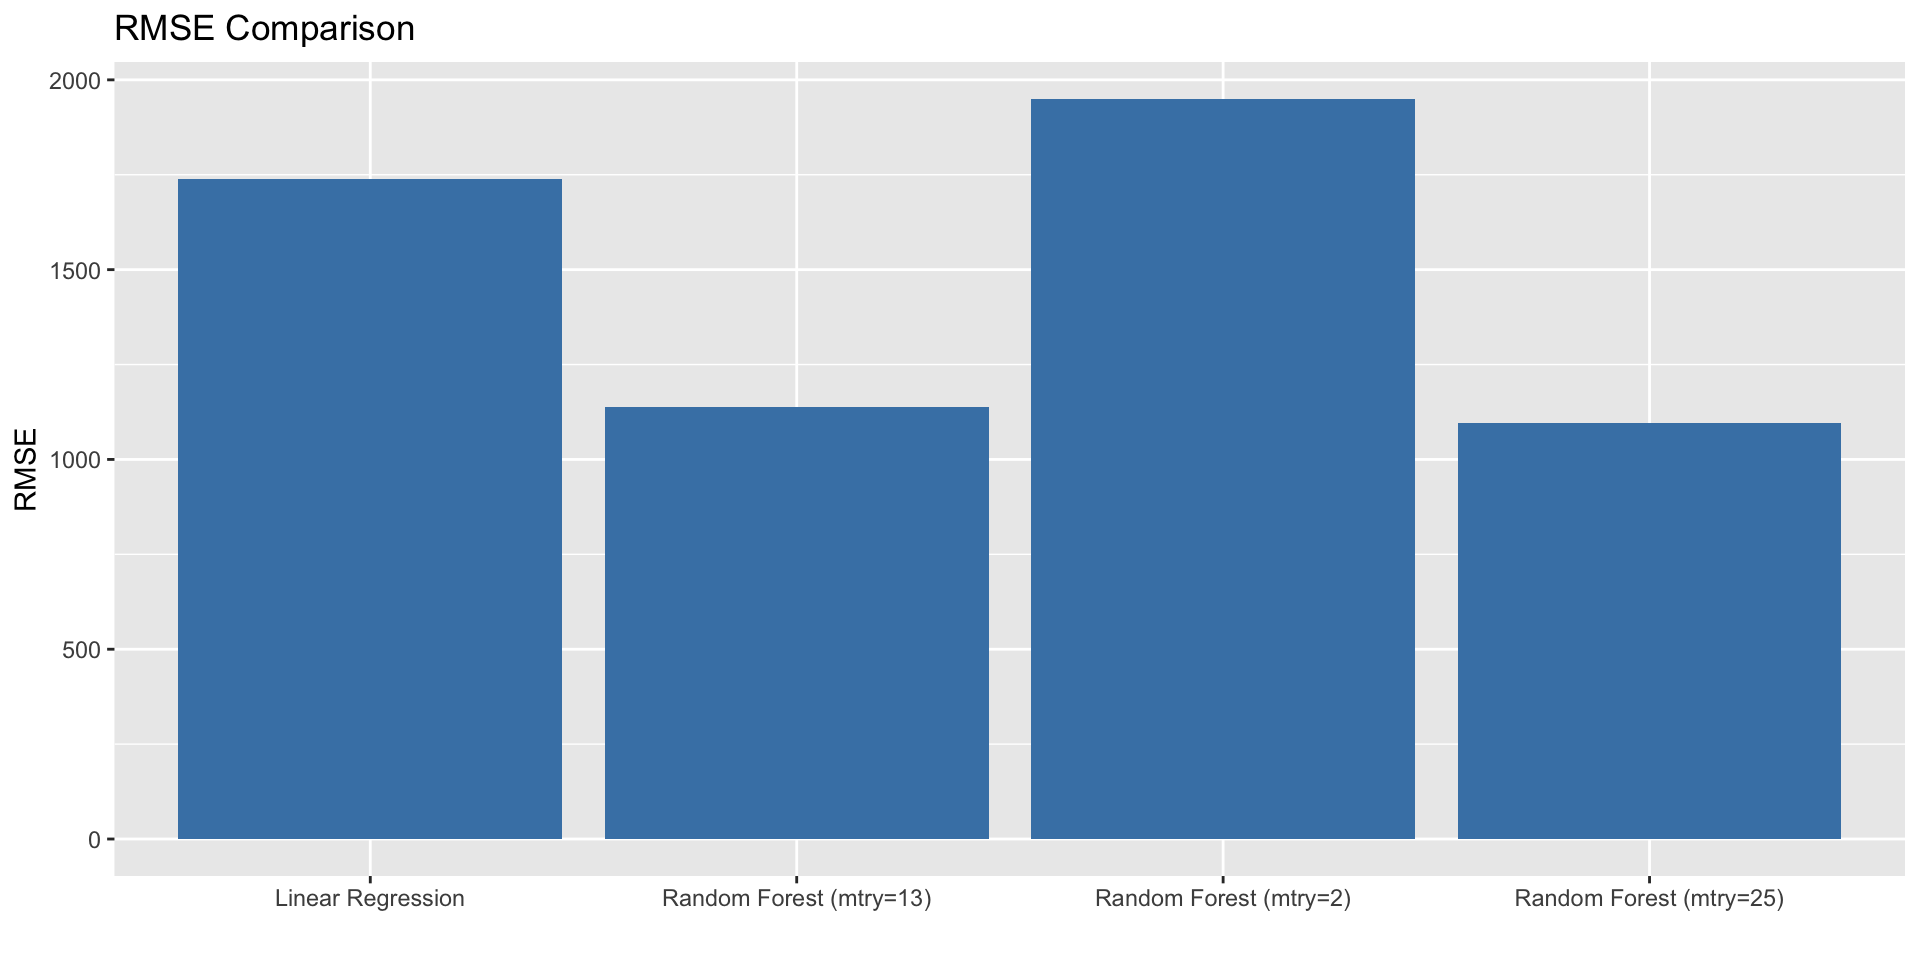
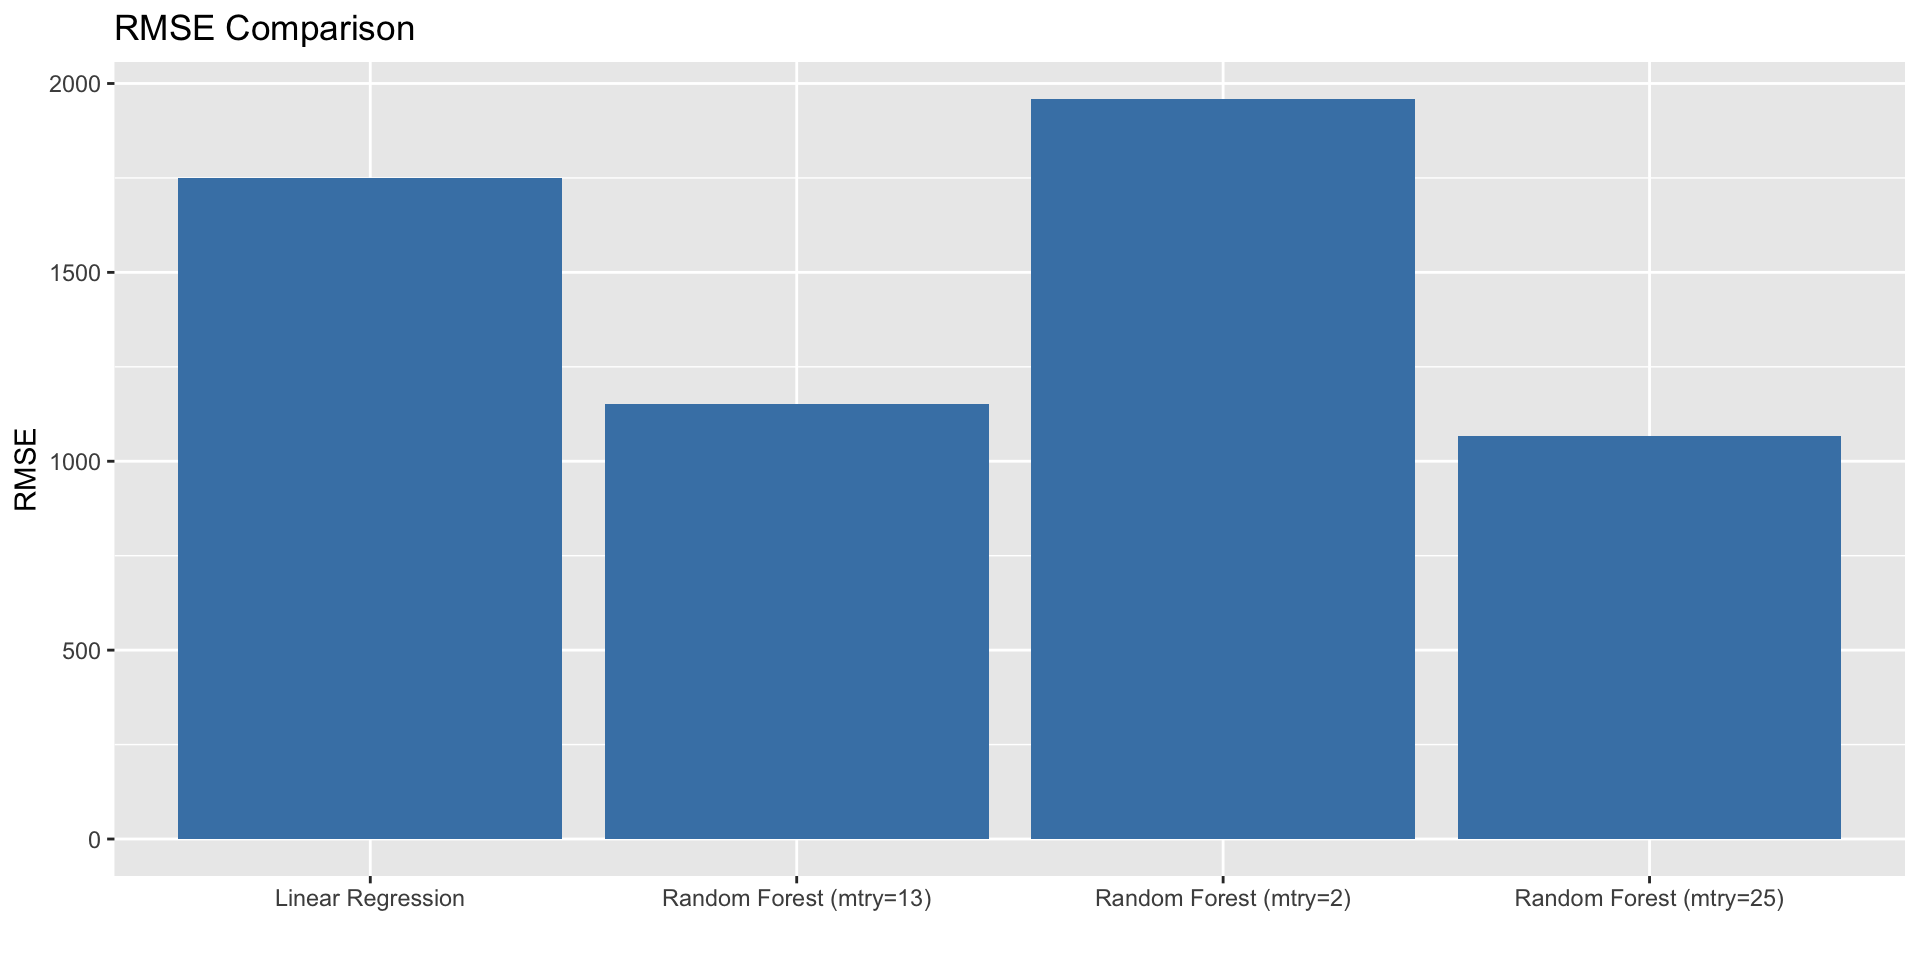
Built site for gh-pages

diff --git a/final_present.html b/final_present.html
@@ -9,7 +9,7 @@
 <link href="site_libs/quarto-html/quarto-syntax-highlighting-549806ee2085284f45b00abea8c6df48.css" rel="stylesheet" id="quarto-text-highlighting-styles"><meta charset="utf-8">
   <meta name="generator" content="quarto-1.6.40">
 
-  <meta name="author" content="Team Jacob">
+  <meta name="author" content="Team i">
   <meta name="dcterms.date" content="2025-04-21">
   <title>CravenSpeed Final – Final Presentation</title>
   <meta name="apple-mobile-web-app-capable" content="yes">
@@ -133,7 +133,7 @@
 <div class="quarto-title-authors">
 <div class="quarto-title-author">
 <div class="quarto-title-author-name">
-Team Jacob 
+Team <span class="math inline">\(i\)</span> 
 </div>
 </div>
 </div>
@@ -234,8 +234,8 @@ Team Jacob
 <h1>Linear Model (LM)</h1>
 <div class="cell">
 <div class="cell-output cell-output-stdout">
-<pre><code>  intercept    RMSE  Rsquared     MAE   RMSESD RsquaredSD   MAESD
-1      TRUE 1737.96 0.6215475 874.891 280.9737  0.1045305 91.8909</code></pre>
+<pre><code>  intercept     RMSE  Rsquared      MAE   RMSESD RsquaredSD    MAESD
+1      TRUE 1750.555 0.6173738 874.0378 289.8027  0.1405774 41.67191</code></pre>
 </div>
 </div>
 </section>
@@ -248,9 +248,9 @@ Team Jacob
 <div class="cell">
 <div class="cell-output cell-output-stdout">
 <pre><code>  mtry     RMSE  Rsquared      MAE   RMSESD RsquaredSD    MAESD
-1    2 1949.988 0.7456534 763.0942 541.3752 0.05835623 86.56510
-2   13 1139.344 0.8637567 240.7161 592.3152 0.09078196 45.87762
-3   25 1095.244 0.8660091 223.8972 639.4137 0.11333878 50.87360</code></pre>
+1    2 1959.379 0.7337146 774.3280 683.1845 0.06747200 69.80119
+2   13 1152.112 0.8675074 255.7203 624.9107 0.07640317 62.57345
+3   25 1067.377 0.8811850 230.5241 639.6849 0.08327907 62.52531</code></pre>
 </div>
 </div>
 </section>
@@ -292,18 +292,6 @@ Team Jacob
 <li>Some features had little variance (e.g., materials or sales channel)</li>
 <li>Missing sales dates limited usable data</li>
 <li>Profit is based only on revenue and BOM, not all costs</li>
-</ul>
-</section>
-<section class="slide level2">
-
-</section></section>
-<section>
-<section id="next-steps" class="title-slide slide level1 center">
-<h1>Next Steps</h1>
-<ul>
-<li>Try <code>xgboost</code> or <code>ridge</code> regression</li>
-<li>Add more nuanced time-series or seasonal features</li>
-<li>Incorporate other cost factors if available</li>
 </ul>
 </section>
 <section class="slide level2">
@@ -655,7 +643,7 @@ Team Jacob
       }
         var localhostRegex = new RegExp(/^(?:http|https):\/\/localhost\:?[0-9]*\//);
         var mailtoRegex = new RegExp(/^mailto:/);
-          var filterRegex = new RegExp('/' + window.location.host + '/');
+          var filterRegex = new RegExp("https:\/\/JacobHack\.github\.io\/final505\/");
         var isInternal = (href) => {
             return filterRegex.test(href) || localhostRegex.test(href) || mailtoRegex.test(href);
         }

diff --git a/Final505.html b/Final505.html
@@ -440,7 +440,7 @@
       }
         var localhostRegex = new RegExp(/^(?:http|https):\/\/localhost\:?[0-9]*\//);
         var mailtoRegex = new RegExp(/^mailto:/);
-          var filterRegex = new RegExp('/' + window.location.host + '/');
+          var filterRegex = new RegExp("https:\/\/JacobHack\.github\.io\/final505\/");
         var isInternal = (href) => {
             return filterRegex.test(href) || localhostRegex.test(href) || mailtoRegex.test(href);
         }
